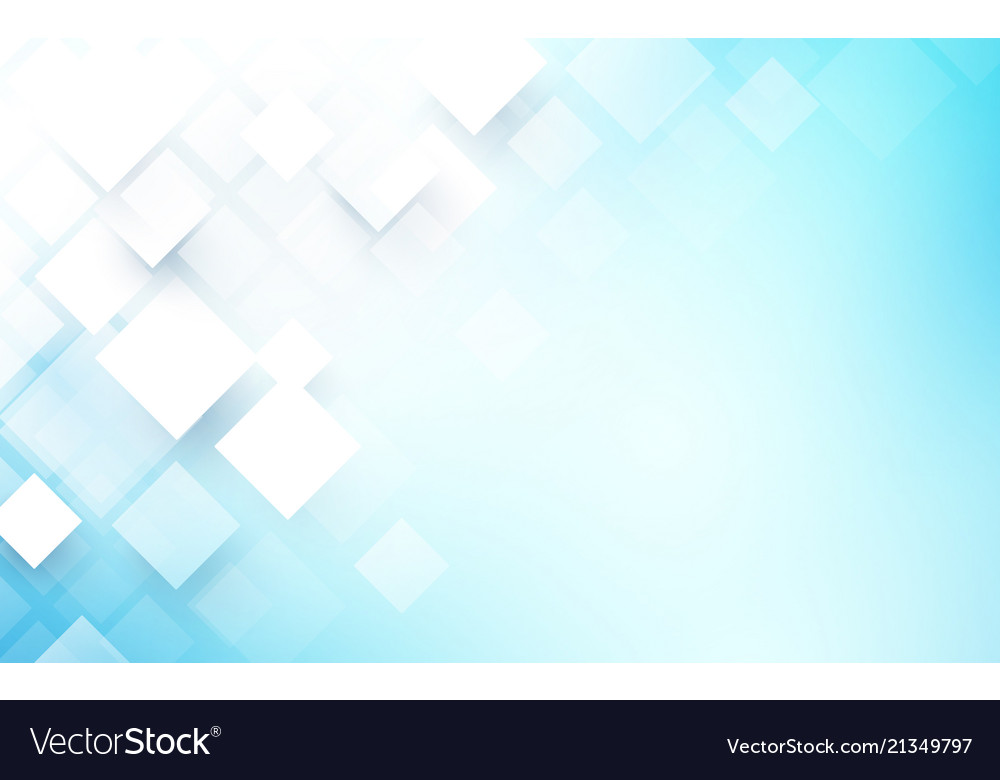
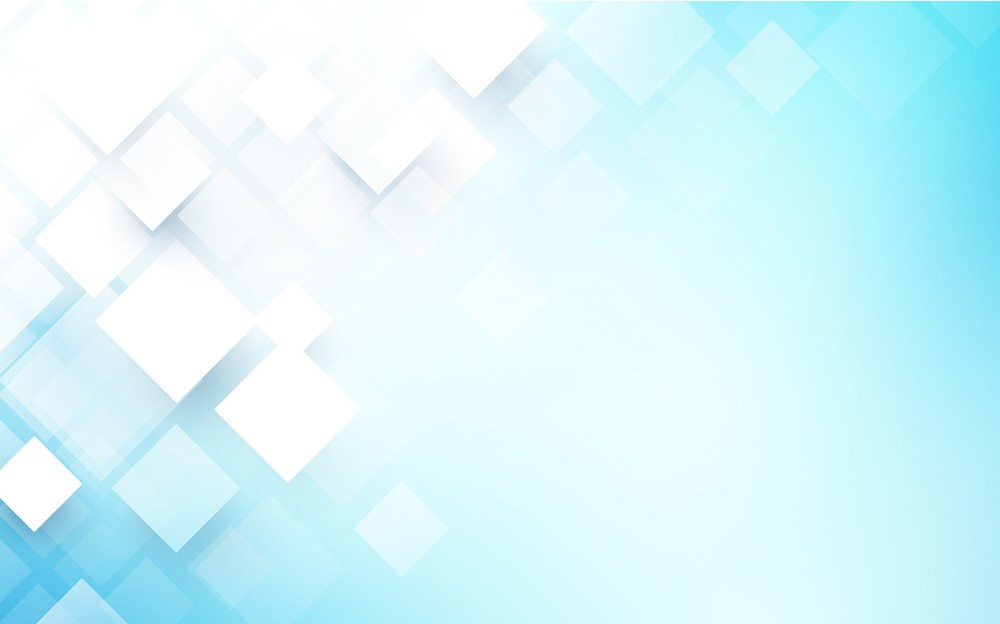
background image changed

diff --git a/kyc_django/kyc_django/kyc/templates/kyc/index.html b/kyc_django/kyc_django/kyc/templates/kyc/index.html
@@ -18,7 +18,7 @@
 </head>
 
 
-<body style="background: url({% static 'img/1.jpg' %}) no-repeat fixed; background-position: center;background-repeat: no-repeat; background-size: cover;">
+<body style="background: url({% static 'img/7.jpg' %}) no-repeat fixed; background-position: center;background-repeat: no-repeat; background-size: cover;">
     {% for message in messages %}
     <div class="alert alert-{{message.tags}} alert-dismissible fade show" role="alert">
         <strong>Message </strong>{{message}}
